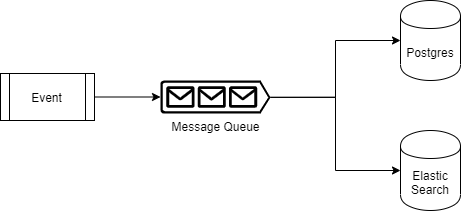
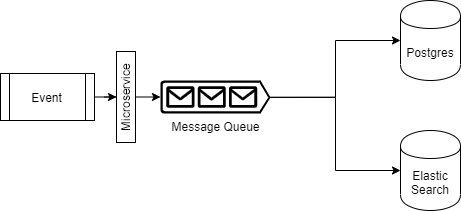
Updated README.md.

Changed region(s): [[0.2126, 0.2844, 0.3037, 0.6256], [0.243, 0.654, 0.3037, 0.6825], [0.243, 0.2275, 0.3037, 0.2559]]

diff --git a/README.md b/README.md
@@ -6,6 +6,33 @@ Bu değerlendirme işe başvuru sürecindeki adaylar için hazırlanmış olup, 
 
 Değerlendirme dahilinde; belirtilen süre içerisinde aşağıda kapsamı ve detayları belirlenmiş projeyi tamamlamanızı beklemekteyiz. Dikkat edebileceğiniz bir diğer husus ise, bizlerin doğru bir değerlendirme yapmamıza yardımcı olacak şekilde iletebileceğiniz en iyi çalışmayı bizlere teslim ediyor olmanız.
 
+
+### Senaryo
+
+Birçok mikroservisin olduğu bir sistemde, diğer servislerde oluşan olay/eventleri toparlayacak yeni bir mikroservis oluşturacağız.
+
+Yeni servisimiz üzerindeki tek REST API endpoint aracılığı ile diğer servislerden olayı detaylarıyla birlikte alacak ve Kafka'ya iletecek.
+
+Kafka ise aldığı mesajları minimum 2 farklı sisteme dağıtacak. Bu iki sistemde de bu mesajları karşılamak yine bizim görevimiz olacak.
+
+
+### Teknik Tasarım
+
+![Diagram](./images/screenshot-01.png)   
+
+
+- Kaynak sistemde oluşan olay/eventler, Tracking servisine HTTP kanalı üzerinden bir dizi/array biçiminde iletilecektir.
+
+- Her bir olay/event mesaj kuyruğuna bir mesaj nesnesi olarak eklenecektir.
+
+- Mesaj kuyruğu işlenirken mesajların yazıldığı kanalda n adet abone/subscriber olacak, Örneğin:
+
+  - İlk abone olayı detayları ile ElasticSearch üzerine yazacak,
+
+  - İkinci abone olayı Postgres’de oluşturulmuş tablo üzerine kaydedecek,
+
+**NOT:** Teknik Beklentiler kısmındaki *Kısıtlamalar ve Gereksinimler* bölümünü dikkatli okuyunuz.
+
 ### Teknik Beklentiler
 
 - Kullanılacak Teknolojiler:
@@ -18,23 +45,10 @@ Değerlendirme dahilinde; belirtilen süre içerisinde aşağıda kapsamı ve de
   - Projenin sık commitlerle Git üzerinde geliştirilmesi
   - Git üzerinde master, development branchleri ve sürüm taglemelerinin kullanımı
   - Minimum %60 unit testing code coverage
+  - Mesajları diğer servislerden toplayan ve kanallarda karşılayan tüm uygulamaların docker-compose dosyasına işlenmesi
+  - `docker-compose up` komutu ile tüm sistemin ayağa kaldırılabilirliği
   - Projenin nasıl çalıştırılacağına dair README.md dokümantasyonu
-
-
-### Teknik Tasarım
-
-![Diagram](./images/screenshot-01.png)   
-
-- Kaynak sistemde oluşan olay/eventler, Tracking servisine HTTP kanalı üzerinden bir dizi/array biçiminde iletilecektir.
-
-- Her bir olay/event mesaj kuyruğuna bir mesaj nesnesi olarak eklenecektir.
-
-- Mesaj kuyruğu işlenirken mesajların yazıldığı kanalda iki adet abone/subscriber olacak,
-
-  - İlki olayı detayları ile ElasticSearch üzerine yazacak,
-
-  - Diğeri ise olayı Postgres’de oluşturulmuş tablo üzerine kaydedecek,
-
+  - **Önemli Detay:** Diagram'da yer alan Postgres ve Elastic Search'in kullanılması gerekmemektedir. Onlar yerine Kafka'dan karşılanan mesajları console'a yansıtan iki farklı abone oluşturmamız yeterlidir.
 
 ### API
 
